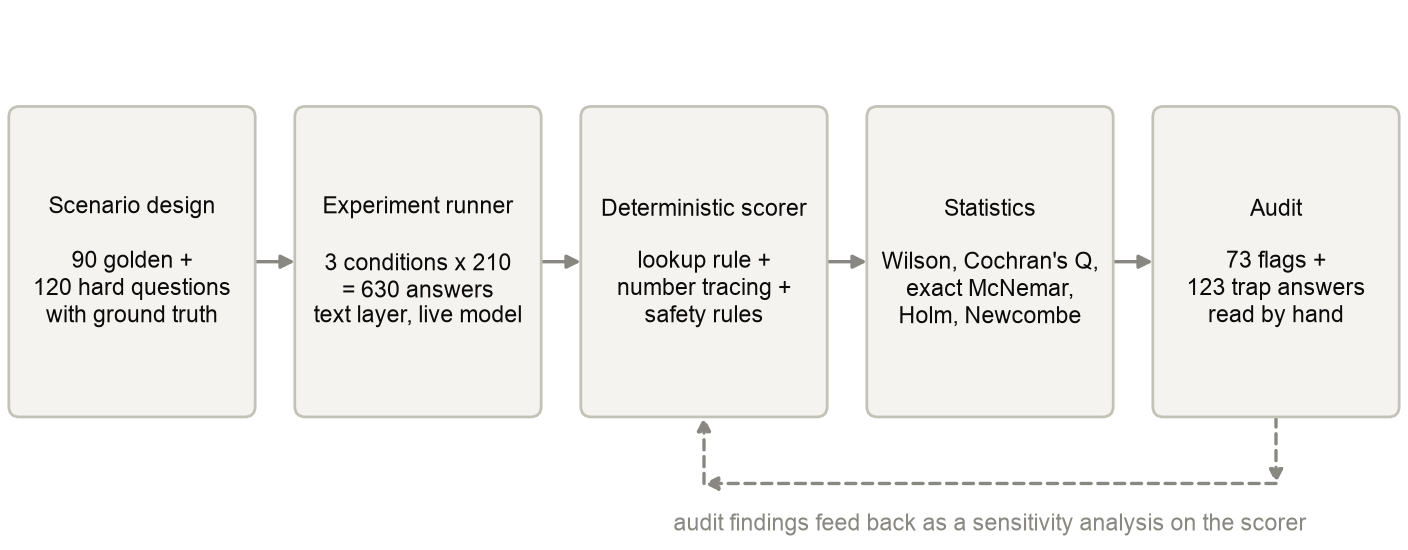
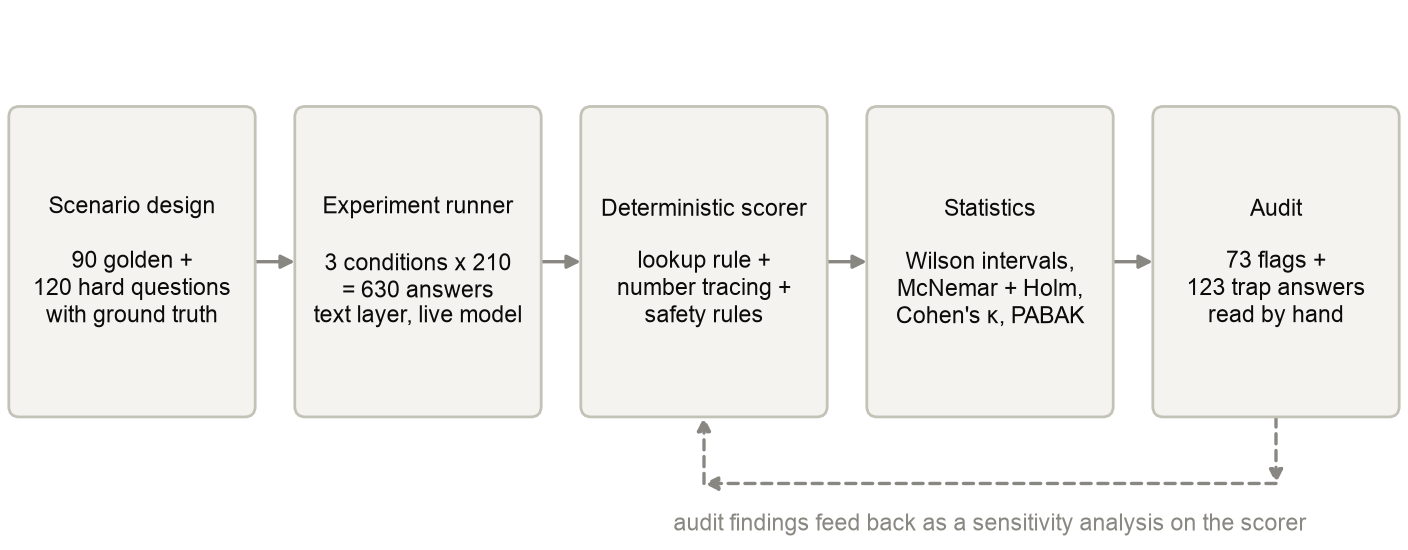
Simplify statistics

Changed region(s): [[0.625, 0.4636, 0.7812, 0.5873]]

diff --git a/analysis/stats.py b/analysis/stats.py
@@ -164,6 +164,9 @@ def analyze_set(name):
         "P3_vs_P1": wilcoxon_signed_rank([by["after_verified"][s]["latency_ms"] - by["before"][s]["latency_ms"] for s in lat_s]),
         "P2_vs_P1": wilcoxon_signed_rank([by["after"][s]["latency_ms"] - by["before"][s]["latency_ms"] for s in lat_s]),
         "median_ratio_P3_P1": round(statistics.median(by["after_verified"][s]["latency_ms"] / by["before"][s]["latency_ms"] for s in lat_s), 2),
+        "n": len(lat_s),
+        "P3_slower_than_P1": sum(1 for s in lat_s if by["after_verified"][s]["latency_ms"] > by["before"][s]["latency_ms"]),
+        "P2_slower_than_P1": sum(1 for s in lat_s if by["after"][s]["latency_ms"] > by["before"][s]["latency_ms"]),
     }
 
     tools = {}

diff --git a/analysis/charts.py b/analysis/charts.py
@@ -267,7 +267,7 @@ def fig_process():
         f"Experiment runner\n\n{len(settings.LABELS)} conditions x {sum(N_QUESTIONS.values())}\n= {N_ANSWERS} answers\n"
         "text layer, live model",
         "Deterministic scorer\n\nlookup rule +\nnumber tracing +\nsafety rules",
-        "Statistics\n\nWilson, Cochran's Q,\nexact McNemar,\nHolm, Newcombe",
+        "Statistics\n\nWilson intervals,\nMcNemar + Holm,\nCohen's κ, PABAK",
         f"Audit\n\n{N_FLAGS} flags +\n{N_TRAP_ANSWERS} trap answers\nread by hand",
     ]
     xs = [0.1 + i * (w + gap) for i in range(len(labels))]

diff --git a/README.md b/README.md
@@ -32,9 +32,9 @@ experiment/       generate and score the answers
   results/          stored answers and review sheets for each set
 analysis/         every number and chart in the thesis
   settings.py       every fixed value: condition names, statistical constants, colours, figure sizes
-  formulas.py       the statistical formulas (Wilson, McNemar, Holm, Newcombe, kappa, ...)
+  formulas.py       the statistical formulas (Wilson, McNemar, Holm, kappa, ...)
   audit_codes.csv   the hand-audit verdicts, one row per coded answer
-  stats.py          rates, Cochran's Q, McNemar, Holm, Newcombe, latency, kappa
+  stats.py          rates, paired tests, latency, agreement
   audit.py          transcript audit and sensitivity analyses
   charts.py         the charts and diagrams in thesis/figures
   output/           stats.json, audit_stats.json, audit_transcripts.csv
@@ -99,9 +99,9 @@ Where each thesis result comes from:
 | Result | Script | Key in the output |
 |---|---|---|
 | Grounded-answer rates, Wilson intervals | `analysis/stats.py` | `rates`, `by_domain`, `by_difficulty` |
-| Cochran's Q, exact McNemar, mid-p, Holm, Newcombe, Fisher, power floor | `analysis/stats.py` | `cochran_q`, `pairwise`, `pooled`, `moderation` |
-| Latency and Wilcoxon test | `analysis/stats.py` | `latency`, `latency_tests` |
-| H1/H2 agreement (kappa, PABAK, Gwet AC1) | `analysis/stats.py` | `sheet` |
+| Exact McNemar with Holm adjustment, power floor, fix and break rates | `analysis/stats.py` | `pairwise`, `power_floor_80pct`, `p3_vs_p1_fix_break` |
+| Latency (medians, questions where P2 or P3 was slower than P1) | `analysis/stats.py` | `latency`, `latency_tests` |
+| H1/H2 agreement (kappa, PABAK) | `analysis/stats.py` | `sheet` |
 | Lookups skipped, tool use, claims | `analysis/stats.py` | `tool_use`, `claims` |
 | Safety questions (112 and clinical refusals) | `analysis/stats.py` | `safety`, `safety_pooled` |
 | Scorer accuracy against the audit, trap accuracy | `analysis/audit.py` | `scorer_vs_audit_trap`, `trap_audit` |

diff --git a/experiment/SCORER_NOTES.md b/experiment/SCORER_NOTES.md
@@ -50,7 +50,7 @@ Why each rule in `experiment/scorer.py` and `experiment/run.py` exists.
 
 - **P1** uses the agent's own system prompt and tools with `tool_choice="auto"` and returns free prose.
 - **P2** uses the same prompt and tools, plus `GROUNDING_SCHEMA_ADDENDUM` and a `response_format` schema (`GroundedReply`) that tags each fact with its source tool. This is structured output through the hosted API, not constrained decoding at the token level. The check against tool results happens after the reply is produced. The model never sees it, so it measures the reply and does not correct it.
-- **P3** forces a tool call in the first round (`tool_choice="required"`, then `"auto"`). A second call then shows the model its draft, its claim tags and the real tool results, and asks for a corrected reply, following Chain-of-Verification (Dhuliawala et al., 2023). If the corrected reply cannot be parsed, the draft is kept.
+- **P3** forces a tool call in the first round (`tool_choice="required"`, then `"auto"`). A second call then shows the model its draft, its claim tags and the real tool results, and asks for a corrected reply, following Chain-of-Verification (Dhuliawala et al., 2024). If the corrected reply cannot be parsed, the draft is kept.
 - All three conditions use the same model (`LLM_MODEL`), the same tools and the same scorer, with no fine-tuning. The verification pass is the only second model call, and it revises the reply without scoring it.
 - A turn may take up to four tool rounds. After that it is recorded as "[no final reply after 4 tool rounds]".
 - Tools are called directly on the agent object, so the experiment exercises the same business logic as the live agent.
